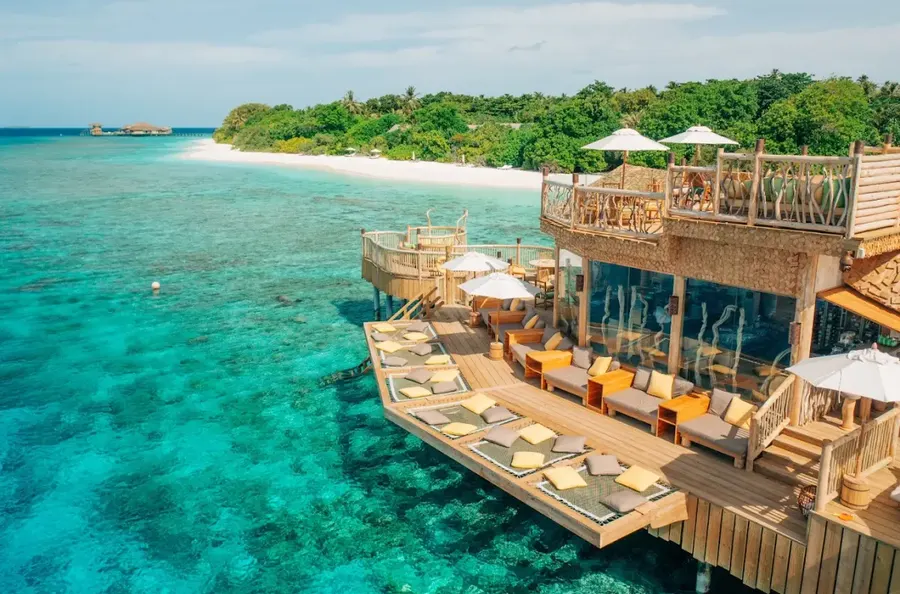
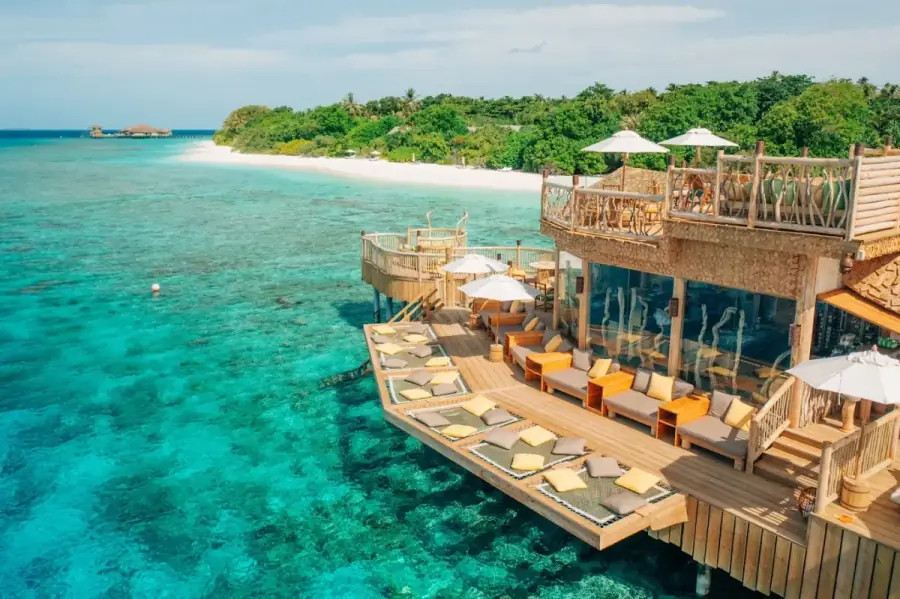
Optimize homepage hotel imagery

diff --git a/lib/scene03-data.ts b/lib/scene03-data.ts
@@ -39,7 +39,7 @@ export const scene03Content: Scene03Content = {
     id: 'soneva-fushi',
     destinationTitle: 'Baa Atoll, Maldives',
     name: 'Soneva Fushi',
-    image: '/images/home/hotels/soneva-fushi.webp',
+    image: '/images/home/hotels/soneva-fushi-optimized.webp',
     imagePosition: 'center',
     rating: 4.9,
     reviewLabel: '2,900+ guest reviews',
